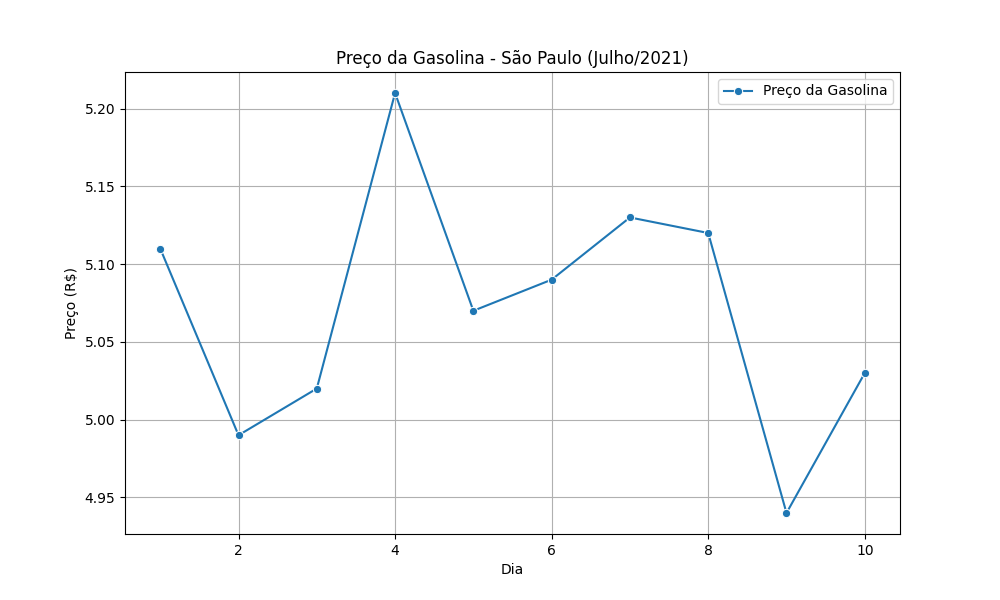
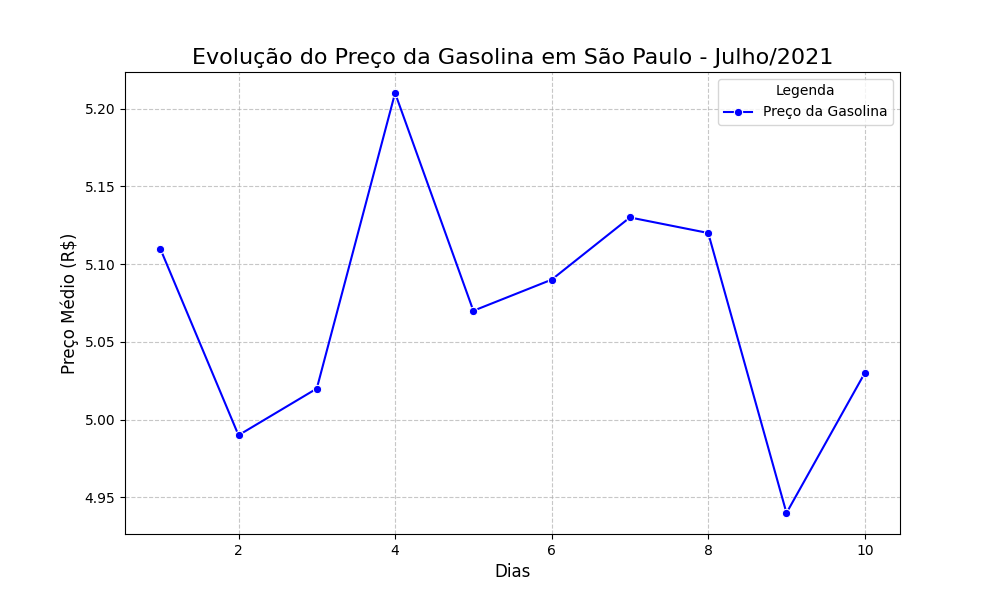
Atualiza o gráfico de gasolina com novos elementos

diff --git a/gasolina.py b/gasolina.py
@@ -7,12 +7,19 @@ df = pd.read_csv("gasolina.csv")
 
 # Criar o gráfico de linha
 plt.figure(figsize=(10, 6))
-sns.lineplot(data=df, x="dia", y="venda", marker="o", label="Preço da Gasolina")
-plt.title("Preço da Gasolina - São Paulo (Julho/2021)")
-plt.xlabel("Dia")
-plt.ylabel("Preço (R$)")
-plt.grid(True)
-plt.legend()
+sns.lineplot(data=df, x="dia", y="venda", marker="o", label="Preço da Gasolina", color="blue")
 
-# Salvar o gráfico em gasolina.png
+# Configurações do gráfico
+plt.title("Evolução do Preço da Gasolina em São Paulo - Julho/2021", fontsize=16)
+plt.xlabel("Dias", fontsize=12)
+plt.ylabel("Preço Médio (R$)", fontsize=12)
+plt.xticks(fontsize=10)
+plt.yticks(fontsize=10)
+plt.grid(True, linestyle="--", alpha=0.7)
+plt.legend(title="Legenda", fontsize=10)
+
+# Salvar o gráfico como gasolina.png
 plt.savefig("gasolina.png")
+
+# Exibir o gráfico (opcional no ambiente local)
+plt.show()
